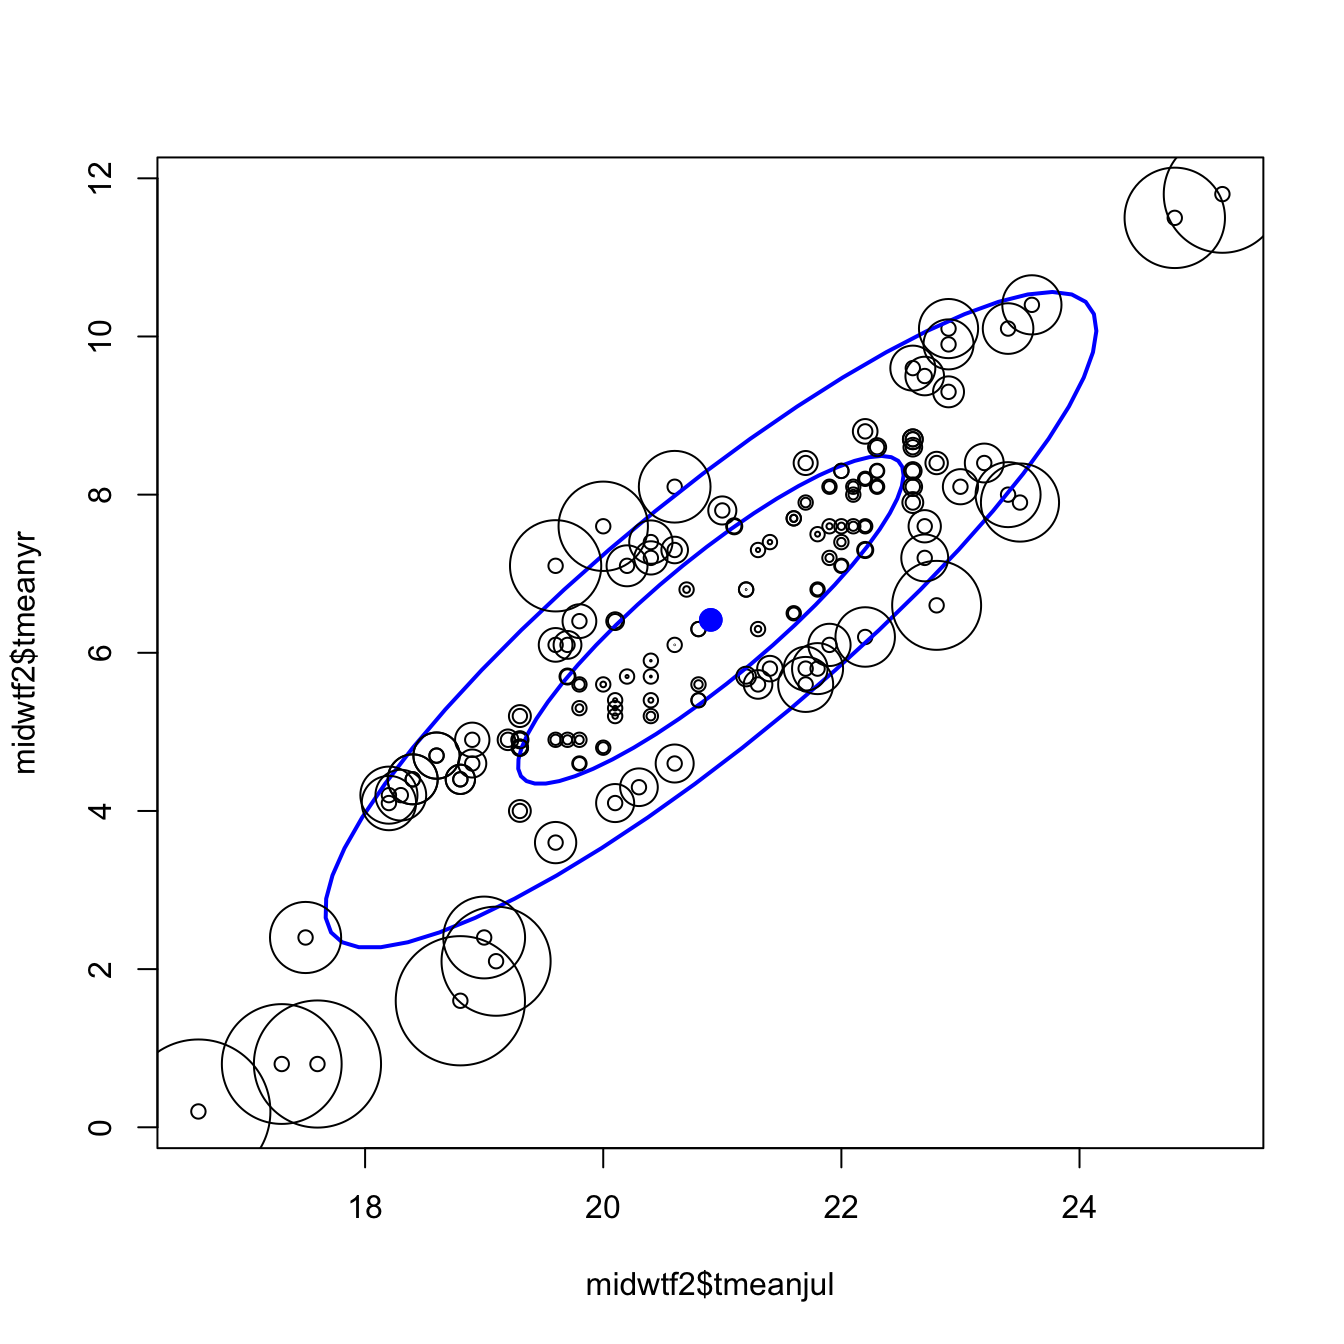
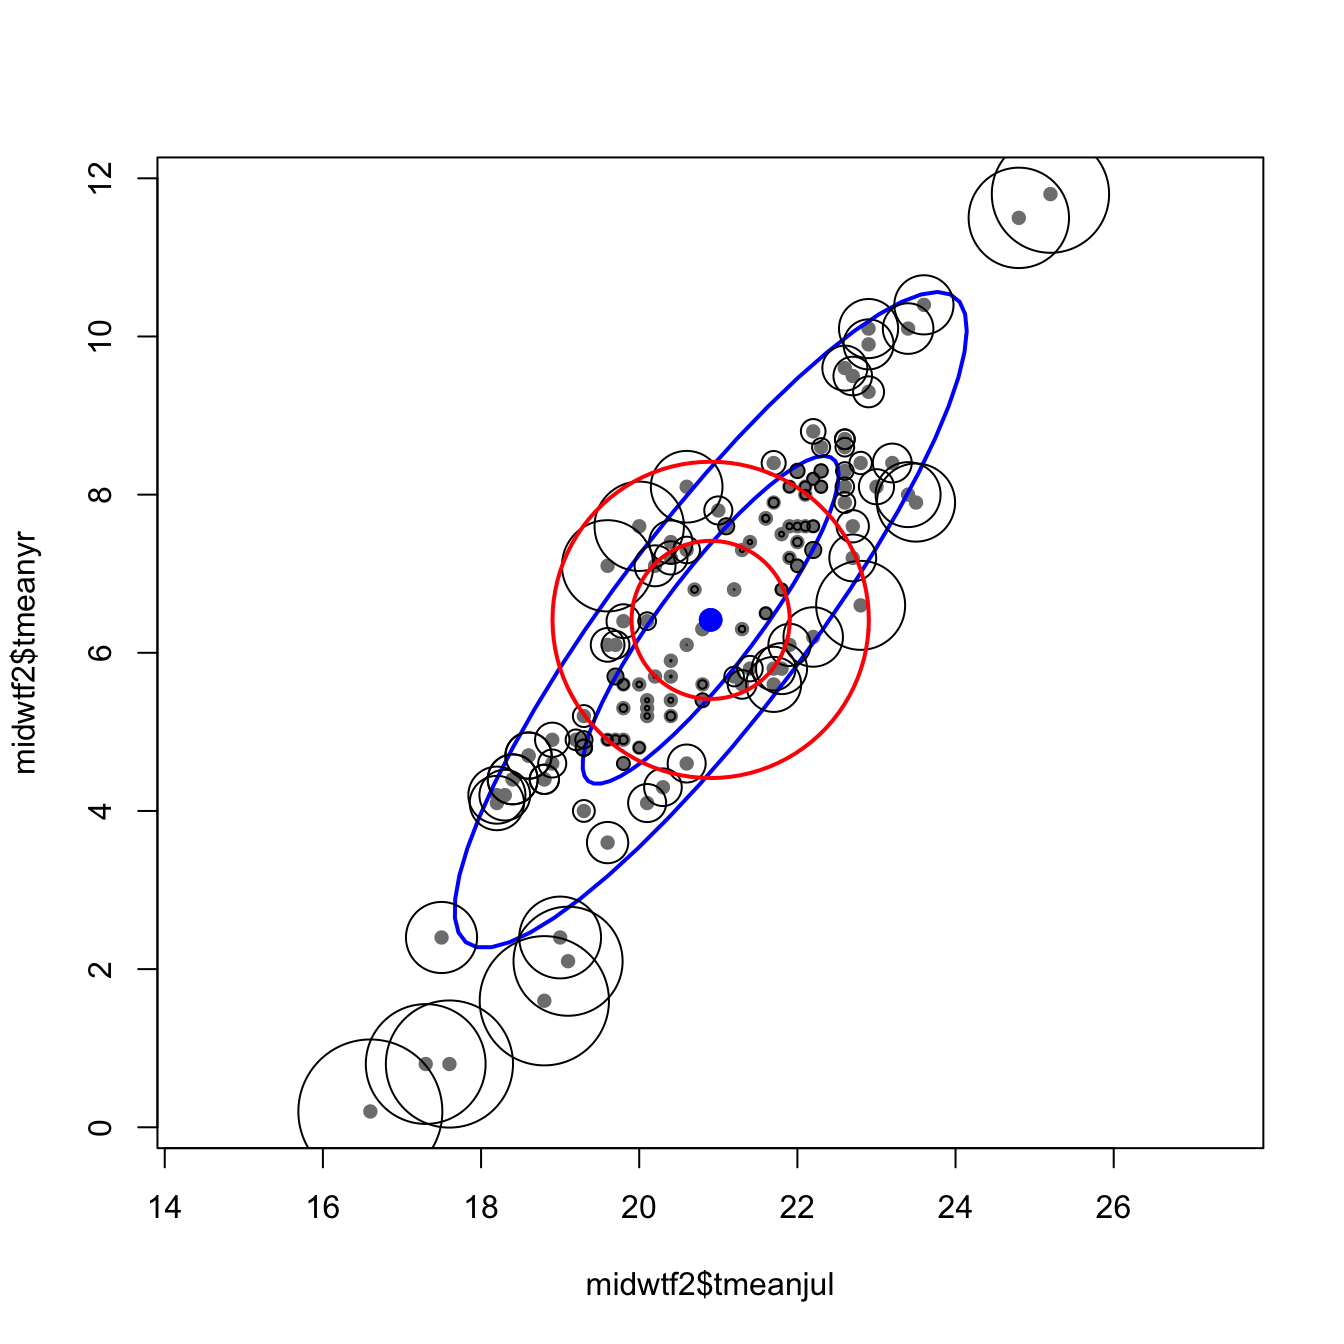
edited lec18.Rmd

diff --git a/docs/lec18.html b/docs/lec18.html
@@ -571,7 +571,7 @@ $(document).ready(function () {
 <p>The basic Euclidean distance treats each variable as equally important in calculating the distance. An alternative approach is to scale the contribution of individual variables to the distance value according to the variability of each variable. This approach is illustrated by the Mahalanobis distance, which is a measure of the distance between each observation in a multidimensional cloud of points and the centroid of the cloud. The Mahalnobis distance <em>D<sup>2</sup></em> is given by</p>
 <p><em>D<sup>2</sup></em> = <strong>(x - m)V</strong> <sup>-1</sup><strong>(x - m)</strong></p>
 <p>where <strong>x</strong> is a vector of values for a particular observation, <strong>m</strong> is the vector of means of each variable, and <strong>V</strong> is the variance-covariance matriX_</p>
-<p>The following code illustrates the calculation of Mahalanobis distances in a “climate space” described by two climate variables from the Midwest pollen-climate data set. The graduate circle around each point is proportional to the Mahalanobis distance between that point and the centroid of scatter of points. The ellipses (drawn using the <code>ellipse()</code> function from the <code>car</code> package graphically illustrate isolines of Mahalanobis distance from the centroid.)</p>
+<p>The following code illustrates the calculation of Mahalanobis distances in a “climate space” described by two climate variables from the Midwest pollen-climate data set. The graduated circle around each point is proportional to the Mahalanobis distance between that point and the centroid of scatter of points. The blue ellipses (drawn using the <code>ellipse()</code> function from the <code>car</code> package) graphically illustrate isolines of Mahalanobis distance from the centroid. The red circles are of radii 1 and 2, and illustrate isolines of Euclidean distance from the centroid.</p>
 <div class="sourceCode" id="cb5"><pre class="sourceCode r"><code class="sourceCode r"><a class="sourceLine" id="cb5-1" data-line-number="1"><span class="co"># Mahalonobis distances</span></a>
 <a class="sourceLine" id="cb5-2" data-line-number="2"><span class="co"># July and annual temperature</span></a>
 <a class="sourceLine" id="cb5-3" data-line-number="3">X &lt;-<span class="st"> </span><span class="kw">as.matrix</span>(midwtf2[,<span class="dv">4</span><span class="op">:</span><span class="dv">5</span>])</a>
@@ -583,11 +583,16 @@ $(document).ready(function () {
 <a class="sourceLine" id="cb5-9" data-line-number="9"><span class="co"># plot the variables, conf. ellipses and M.D.</span></a>
 <a class="sourceLine" id="cb5-10" data-line-number="10"><span class="kw">library</span>(car)</a></code></pre></div>
 <pre><code>## Loading required package: carData</code></pre>
-<div class="sourceCode" id="cb7"><pre class="sourceCode r"><code class="sourceCode r"><a class="sourceLine" id="cb7-1" data-line-number="1"><span class="kw">plot</span>(midwtf2<span class="op">$</span>tmeanjul, midwtf2<span class="op">$</span>tmeanyr)</a>
-<a class="sourceLine" id="cb7-2" data-line-number="2"><span class="kw">ellipse</span>(X_mean, X_cov, <span class="dt">radius=</span><span class="dv">1</span>, <span class="dt">add=</span><span class="ot">TRUE</span>)</a>
-<a class="sourceLine" id="cb7-3" data-line-number="3"><span class="kw">ellipse</span>(X_mean, X_cov, <span class="dt">radius=</span><span class="dv">2</span>, <span class="dt">add=</span><span class="ot">TRUE</span>)</a>
-<a class="sourceLine" id="cb7-4" data-line-number="4"><span class="kw">points</span>(midwtf2<span class="op">$</span>tmeanjul, midwtf2<span class="op">$</span>tmeanyr, <span class="dt">cex=</span><span class="dv">10</span><span class="op">*</span>(X_mah<span class="op">-</span><span class="kw">min</span>(X_mah))<span class="op">/</span>(<span class="kw">max</span>(X_mah)<span class="op">-</span></a>
-<a class="sourceLine" id="cb7-5" data-line-number="5"><span class="st">    </span><span class="kw">min</span>(X_mah)))</a></code></pre></div>
+<div class="sourceCode" id="cb7"><pre class="sourceCode r"><code class="sourceCode r"><a class="sourceLine" id="cb7-1" data-line-number="1"><span class="kw">library</span>(plotrix)</a>
+<a class="sourceLine" id="cb7-2" data-line-number="2"></a>
+<a class="sourceLine" id="cb7-3" data-line-number="3"><span class="co"># plot points, Mahalanobis distances and Euclidean distances</span></a>
+<a class="sourceLine" id="cb7-4" data-line-number="4"><span class="kw">plot</span>(midwtf2<span class="op">$</span>tmeanjul, midwtf2<span class="op">$</span>tmeanyr, <span class="dt">asp=</span><span class="dv">1</span>, <span class="dt">pch=</span><span class="dv">16</span>, <span class="dt">col=</span><span class="st">&quot;gray50&quot;</span>)</a>
+<a class="sourceLine" id="cb7-5" data-line-number="5"><span class="kw">ellipse</span>(X_mean, X_cov, <span class="dt">radius=</span><span class="dv">1</span>, <span class="dt">add=</span><span class="ot">TRUE</span>)</a>
+<a class="sourceLine" id="cb7-6" data-line-number="6"><span class="kw">ellipse</span>(X_mean, X_cov, <span class="dt">radius=</span><span class="dv">2</span>, <span class="dt">add=</span><span class="ot">TRUE</span>)</a>
+<a class="sourceLine" id="cb7-7" data-line-number="7"><span class="kw">points</span>(midwtf2<span class="op">$</span>tmeanjul, midwtf2<span class="op">$</span>tmeanyr, <span class="dt">cex=</span><span class="dv">10</span><span class="op">*</span>(X_mah<span class="op">-</span><span class="kw">min</span>(X_mah))<span class="op">/</span>(<span class="kw">max</span>(X_mah)<span class="op">-</span></a>
+<a class="sourceLine" id="cb7-8" data-line-number="8"><span class="st">    </span><span class="kw">min</span>(X_mah)))</a>
+<a class="sourceLine" id="cb7-9" data-line-number="9"><span class="kw">draw.circle</span>(X_mean[<span class="dv">1</span>], X_mean[<span class="dv">2</span>], <span class="dt">radius=</span><span class="dv">1</span>, <span class="dt">lwd=</span><span class="dv">2</span>, <span class="dt">bor=</span><span class="st">&quot;red&quot;</span>)</a>
+<a class="sourceLine" id="cb7-10" data-line-number="10"><span class="kw">draw.circle</span>(X_mean[<span class="dv">1</span>], X_mean[<span class="dv">2</span>], <span class="dt">radius=</span><span class="dv">2</span>, <span class="dt">lwd=</span><span class="dv">2</span>, <span class="dt">bor=</span><span class="st">&quot;red&quot;</span>)</a></code></pre></div>
 <p><img src="lec18_files/figure-html/md02-1.png" width="672" /></p>
 <p>The following code finds the Mahalanobis distances between each pollen site, where distances are now in “pollen space.”.</p>
 <div class="sourceCode" id="cb8"><pre class="sourceCode r"><code class="sourceCode r"><a class="sourceLine" id="cb8-1" data-line-number="1"><span class="co"># Mahalonobis distances for individual spectra, Midwestern pollen data</span></a>
